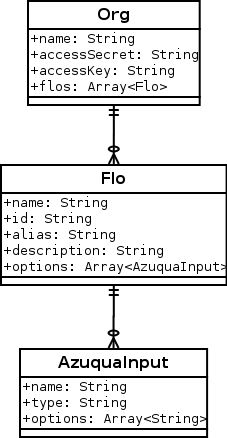
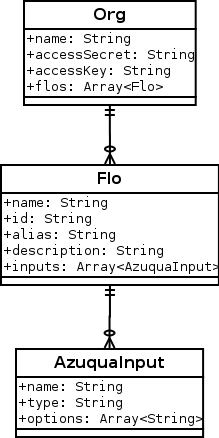
minor naming convention change

diff --git a/androidAPI/AzuquaAPI/src/main/java/com/azuqua/androidAPI/Flo.java b/androidAPI/AzuquaAPI/src/main/java/com/azuqua/androidAPI/Flo.java
@@ -10,16 +10,16 @@ public class Flo implements Parcelable {
     private String name;
     private String alias;
     private String description;
-    private AzuquaInput[] options;
+    private AzuquaInput[] inputs;
     private boolean active;
 
-    public Flo(String id, String name, String alias, String description, Boolean active, AzuquaInput[] options) {
+    public Flo(String id, String name, String alias, String description, Boolean active, AzuquaInput[] inputs) {
         this.id = id;
         this.name = name;
         this.alias = alias;
         this.description = description;
         this.active = active;
-        this.options = options;
+        this.inputs = inputs;
     }
 
     public Flo(Parcel in){
@@ -43,7 +43,7 @@ public class Flo implements Parcelable {
         */
         Parcelable[] parcelableArray =  in.readParcelableArray(AzuquaInput.class.getClassLoader());
         if (parcelableArray != null) {
-            this.options = Arrays.copyOf(parcelableArray, parcelableArray.length, AzuquaInput[].class);
+            this.inputs = Arrays.copyOf(parcelableArray, parcelableArray.length, AzuquaInput[].class);
         }
 
         in.readBooleanArray(booleanData);
@@ -60,7 +60,7 @@ public class Flo implements Parcelable {
         });
 
         //out.writeStringArray(this.inputs);
-        out.writeParcelableArray(options, flags);
+        out.writeParcelableArray(inputs, flags);
 
         out.writeBooleanArray(new boolean[] {
                 this.active
@@ -100,7 +100,7 @@ public class Flo implements Parcelable {
     }
 
     public void setOptions(AzuquaInput[] opitons) {
-        this.options = options;
+        this.inputs = inputs;
     }
 
     public boolean isActive() {
@@ -137,8 +137,8 @@ public class Flo implements Parcelable {
     }
 
     //Get Inputs
-    public AzuquaInput[] getOptions() {
-        return options;
+    public AzuquaInput[] getInputs() {
+        return inputs;
     }
 
 }
